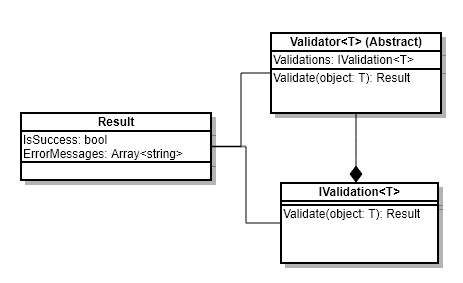
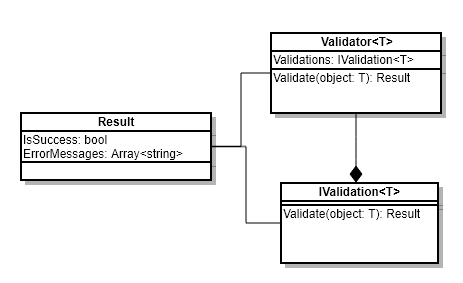
Remove asbtract from Validator<T>

Changed region(s): [[0.6048, 0.1131, 0.9374, 0.1696]]

diff --git a/lib/src/Patterns/Validator/tests/PersonValidator.spec.ts b/lib/src/Patterns/Validator/tests/PersonValidator.spec.ts
@@ -6,7 +6,7 @@ class Person {
   constructor(
     public Name: string,
     public Age: number
-  ) {}
+  ) { }
 }
 
 class NameValidation implements IValidation<Person> {
@@ -35,17 +35,11 @@ class AgeValidation implements IValidation<Person> {
   }
 }
 
-class PersonValidator extends Validator<Person> {
-  constructor(personValidations: Array<IValidation<Person>>) {
-    super(personValidations);
-  }
-}
-
 describe('PersonValidator', (() => {
-  let personValidator: PersonValidator;
+  let personValidator: Validator<Person>;
 
   beforeEach(() => {
-    personValidator = new PersonValidator([
+    personValidator = new Validator<Person>([
       new NameValidation(),
       new AgeValidation()
     ]);

diff --git a/lib/src/Patterns/Validator/Validator.ts b/lib/src/Patterns/Validator/Validator.ts
@@ -1,7 +1,7 @@
 import { Result } from '../Result/Result';
 import { IValidation } from './IValidation';
 
-export abstract class Validator<T> {
+export class Validator<T> {
   private validations: Array<IValidation<T>>;
 
   constructor(validations: Array<IValidation<T>>) {
